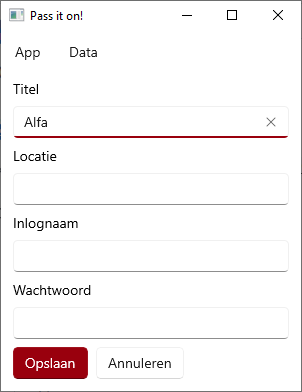
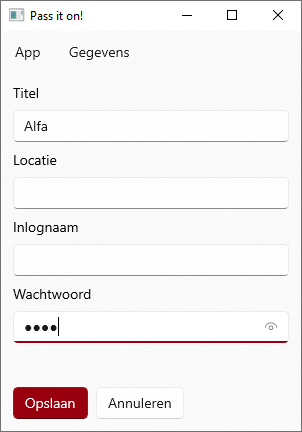
update styles, images, change Hyperlink to TextBox

diff --git a/Pass it on/MainWindow.xaml b/Pass it on/MainWindow.xaml
@@ -10,12 +10,13 @@
     <!--
     ExtendsContentIntoTitleBar="True"
     -->
-    <Grid>
+    <Grid Background="{ThemeResource AcrylicBackgroundFillColorDefaultBrush}">
         <Grid.RowDefinitions>
             <RowDefinition Height="Auto"/>
             <RowDefinition Height="*"/>
+            <RowDefinition Height="Auto"/>
         </Grid.RowDefinitions>
-        <!--Menu-->
+        <!-- Menu -->
         <MenuBar Grid.Row="0">
             <MenuBarItem x:Uid="MenuBar_App">
                 <MenuFlyoutItem x:Uid="MenuBar_Info" Click="OpenInfo">
@@ -50,13 +51,16 @@
                 </MenuFlyoutItem>
             </MenuBarItem>
         </MenuBar>
-        <!--#region Display-->
-        <StackPanel x:Name="RegionDisplay" Grid.Row="1" Visibility="Visible" Style="{StaticResource MainStackStyle}">
-            <ComboBox x:Name="SelectSubject" x:Uid="SelectSubject" IsEditable="True" HorizontalAlignment="Stretch"
-            TextSubmitted="LoadSubjectData"
+
+        <!-- Display -->
+        <StackPanel x:Name="RegionDisplay" Grid.Row="1" Visibility="Visible" Style="{StaticResource PrimaryStackStyle}">
+            <ComboBox x:Name="SelectSubject" x:Uid="SubjectTitle"
+                      IsEditable="True" HorizontalAlignment="Stretch"
+                      TextSubmitted="LoadSubjectData"
             >
                 <!--
             ItemsSource="{x:Bind Subjects}"
+            SelectionChanged="LoadSubjectData" ?
             -->
                 <!--
             https://learn.microsoft.com/uwp/api/windows.ui.xaml.datatemplate?view=winrt-22621
@@ -69,19 +73,18 @@
                 <!--</DataTemplate>-->
             </ComboBox>
 
-            <TextBlock/>
-
-            <HyperlinkButton x:Name="SubjectLocation" x:Uid="SubjectLocation"
-                             HorizontalAlignment="Stretch" HorizontalContentAlignment="Left"
-                             Content="" NavigateUri=""
-                >
-                <!--Visibility="{x:Bind SubjectLocation.Content, Converter={StringVisibilityConverter}}"-->
+            <TextBox x:Name="SubjectLocation" x:Uid="SubjectLocation"
+                     IsReadOnly="true"
+                     HorizontalAlignment="Stretch"
+                     Background="Transparent"
+                     >
                 <ToolTipService.ToolTip>
                     <ToolTip x:Uid="ToolTipMessage_Open" Placement="Bottom"/>
                 </ToolTipService.ToolTip>
-            </HyperlinkButton>
-
-
+            </TextBox>
+            <!--<HyperlinkButton x:Name="SubjectLocationLink" x:Uid="SubjectLocation"
+            Content="" NavigateUri="">
+            </Hyperlink>-->
             <ComboBox x:Name="SubjectLogin" x:Uid="SubjectLogin" HorizontalAlignment="Stretch">
                 <!--<DataTemplate>-->
                 <ComboBoxItem Content="Delta"/>
@@ -91,26 +94,25 @@
             </ComboBox>
 
             <TextBox x:Name="SubjectPassword" x:Uid="SubjectPassword" IsReadOnly="true"/>
-
-            <StackPanel Orientation="Horizontal" Style="{StaticResource StackStyle}">
-                <Button x:Uid="Button_Create" IsEnabled="False" Click="CreateNewSubject"/>
-                <Button x:Uid="Button_Edit" IsEnabled="True" Click="EditSubject"/>
-                <Button x:Uid="Button_Delete" IsEnabled="True" Click="DeleteSubject"/>
-            </StackPanel>
         </StackPanel>
-        <!--#endregion-->
-        <!--#region Edit controls-->
-        <StackPanel x:Name="RegionEdit" Grid.Row="1" Visibility="Collapsed" Style="{StaticResource MainStackStyle}">
-            <TextBox x:Name="Input_Title" x:Uid="Input_Title"/>
-            <TextBox x:Name="Input_Location" x:Uid="Input_Location"/>
-            <TextBox x:Name="Input_LogIn" x:Uid="Input_LogIn"/>
-            <PasswordBox x:Name="Input_Password" x:Uid="Input_Password"/>
 
-            <StackPanel Orientation="Horizontal" HorizontalAlignment="Stretch" Style="{StaticResource StackStyle}">
-                <Button x:Uid="Button_Save" Style="{ThemeResource AccentButtonStyle}" Click="SaveEdit" />
-                <Button x:Uid="Button_Cancel" Click="CancelEdit"/>
-            </StackPanel>
+        <StackPanel Grid.Row="2" Orientation="Horizontal" Style="{StaticResource PrimaryStackStyle}" Visibility="{x:Bind RegionDisplay.Visibility, Mode=OneWay}">
+            <Button x:Uid="Button_Create" IsEnabled="False" Click="CreateNewSubject"/>
+            <Button x:Uid="Button_Edit" IsEnabled="True" Click="EditSubject"/>
+            <Button x:Uid="Button_Delete" IsEnabled="True" Click="DeleteSubject"/>
         </StackPanel>
-        <!--#endregion-->
+
+        <!-- Edit -->
+        <StackPanel x:Name="RegionEdit" Grid.Row="1" Visibility="Collapsed" Style="{StaticResource PrimaryStackStyle}">
+            <TextBox x:Name="Input_Title" x:Uid="SubjectTitle"/>
+            <TextBox x:Name="Input_Location" x:Uid="SubjectLocation"/>
+            <TextBox x:Name="Input_LogIn" x:Uid="SubjectLogIn"/>
+            <PasswordBox x:Name="Input_Password" x:Uid="SubjectPassword"/>
+        </StackPanel>
+
+        <StackPanel Grid.Row="2" Orientation="Horizontal" HorizontalAlignment="Stretch" Style="{StaticResource PrimaryStackStyle}" Visibility="{x:Bind RegionEdit.Visibility, Mode=OneWay}">
+            <Button x:Uid="Button_Save" Style="{ThemeResource AccentButtonStyle}" Click="SaveEdit" />
+            <Button x:Uid="Button_Cancel" Click="CancelEdit"/>
+        </StackPanel>
     </Grid>
 </Window>

diff --git a/Pass it on/Styles/Styles.xaml b/Pass it on/Styles/Styles.xaml
@@ -2,10 +2,10 @@
     xmlns="http://schemas.microsoft.com/winfx/2006/xaml/presentation"
     xmlns:x="http://schemas.microsoft.com/winfx/2006/xaml">
 
-    <Style x:Key="StackStyle" TargetType="StackPanel">
+    <Style x:Key="ChildStackStyle" TargetType="StackPanel">
         <Setter Property="Spacing" Value="8"/>
     </Style>
-    <Style x:Key="MainStackStyle" TargetType="StackPanel" BasedOn="{StaticResource StackStyle}">
-        <Setter Property="Padding" Value="12,8"/>
+    <Style x:Key="PrimaryStackStyle" TargetType="StackPanel" BasedOn="{StaticResource ChildStackStyle}">
+        <Setter Property="Margin" Value="12"/>
     </Style>
 </ResourceDictionary>

diff --git a/Pass it on/MainWindow.xaml.cs b/Pass it on/MainWindow.xaml.cs
@@ -31,6 +31,8 @@ namespace PassItOn
         public MainWindow()
         {
             this.InitializeComponent();
+            //ExtendsContentIntoTitleBar = true; // works, but is super ugly
+
             // Retrieve the window handle (HWND) of the current (XAML) WinUI 3 window.
             var hWnd =
                 WinRT.Interop.WindowNative.GetWindowHandle(this);
@@ -48,10 +50,10 @@ namespace PassItOn
                 // You now have an AppWindow object, and you can call its methods to manipulate the window.
                 // As an example, let's change the title text of the window.
                 appWindow.Title = "Pass it on!";
-                var clientSize = new SizeInt32(300, 360);
+                var clientSize = new SizeInt32(300, 400);
                 appWindow.ResizeClient(clientSize);
             }
-            //source: https://learn.microsoft.com/windows/apps/windows-app-sdk/windowing/windowing-overview
+            // source: https://learn.microsoft.com/windows/apps/windows-app-sdk/windowing/windowing-overview
         }
 
         private void LoadSubjectData(ComboBox sender, ComboBoxTextSubmittedEventArgs e)
@@ -60,9 +62,9 @@ namespace PassItOn
             if (IsValid(cbText))
             {
                 Console.WriteLine($"Loading data for subject {cbText}");
-                SubjectLocation.Content = "World!";
-                var uri = new Uri("http://go.go");
-                SubjectLocation.NavigateUri = uri;
+                SubjectLocation.Text = "World!";
+                //var uri = new Uri("http://go.go");
+                //SubjectLocation.NavigateUri = uri;
                 SubjectLogin.Text = "Name";
                 SubjectPassword.Text = "Password";
             }
@@ -70,7 +72,7 @@ namespace PassItOn
             {
                 // If the item is invalid, reject it but do not revert the text.
                 // Mark the event as handled so the framework doesn't update the selected item.
-                SubjectLocation.Content = string.Empty;
+                SubjectLocation.Text = string.Empty;
                 SubjectLogin.Text = string.Empty;
                 SubjectPassword.Text = string.Empty;
                 e.Handled = true;
@@ -143,7 +145,7 @@ namespace PassItOn
                 // delete subject from file
                 Console.WriteLine($"Deleting subject {cbText} from file");
                 // set ComboBox + others
-                SubjectLocation.Content = string.Empty;
+                SubjectLocation.Text = string.Empty;
                 SubjectLogin.Text = string.Empty;
                 SubjectPassword.Text = string.Empty;
             }
@@ -191,7 +193,7 @@ namespace PassItOn
             myProcess.StartInfo.UseShellExecute = true;
             myProcess.StartInfo.FileName = "https://github.com/Jay-o-Way/Learning-this/blob/main/PassItOn.md";
             myProcess.Start();
-            //source: https://stackoverflow.com/questions/70854882/how-to-open-new-browser-window-in-c-winui-3
+            // source: https://stackoverflow.com/questions/70854882/how-to-open-new-browser-window-in-c-winui-3
         }
     }
 }

diff --git a/PassItOn.md b/PassItOn.md
@@ -12,6 +12,9 @@ Password manager, based on previous development with AutoIt.
 | **Info**   | open Project info page<br/><https://github.com/Jay-o-Way/Learning-this/blob/main/PassItOn.md> |
 | **Close**  | close the app                                                                                 |
 | Data       |
+| **Create** | create new subject, starting with ComboBox text                                               |
+| **Edit**   | exit selected subject                                                                         |
+| **Delete** | delete selected subject                                                                       |
 | **Import** | import data from file                                                                         |
 | **Export** | export data to file                                                                           |
 
@@ -21,14 +24,14 @@ Password manager, based on previous development with AutoIt.
 
 | Control           | Function                                                                                       |
 |:------------------|:-----------------------------------------------------------------------------------------------|
-| ComboBox          | to select existing data, or create new subject by typing a new name                            |
+| ComboBox          | select existing data, or create new subject by typing a new name                               |
 | DropDown          | select different sub-items<br/>example: subject "Outlook" can contain multiple e-mail accounts |
-| **Create** button | create new subject, starting with ComboBox text                                                |
-| **Edit** button   | exit selected subject                                                                          |
-| **Delete** button | delete selected subject                                                                        |
 | HyperlinkButton   | open URL                                                                                       |
 | ComboBox          | select field "name" (often an e-mail address)                                                  |
 | TextBox           | display password                                                                               |
+| **Create** button | create new subject, starting with ComboBox text                                                |
+| **Edit** button   | exit selected subject                                                                          |
+| **Delete** button | delete selected subject                                                                        |
 
 ### View 2: Edit data
 
